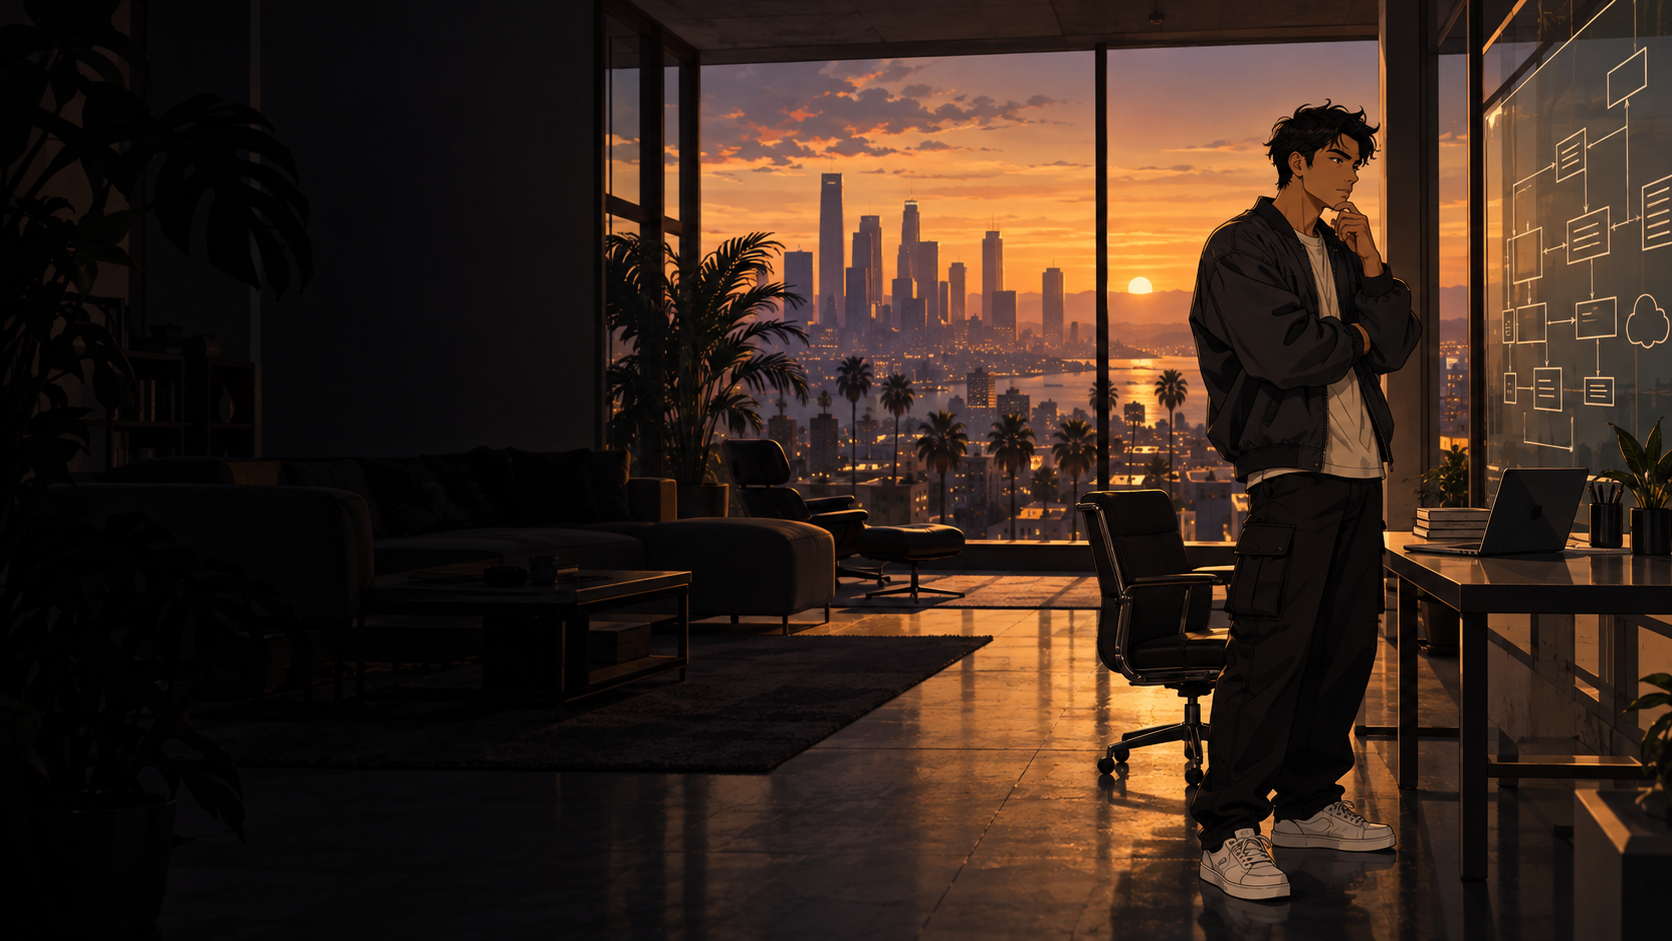
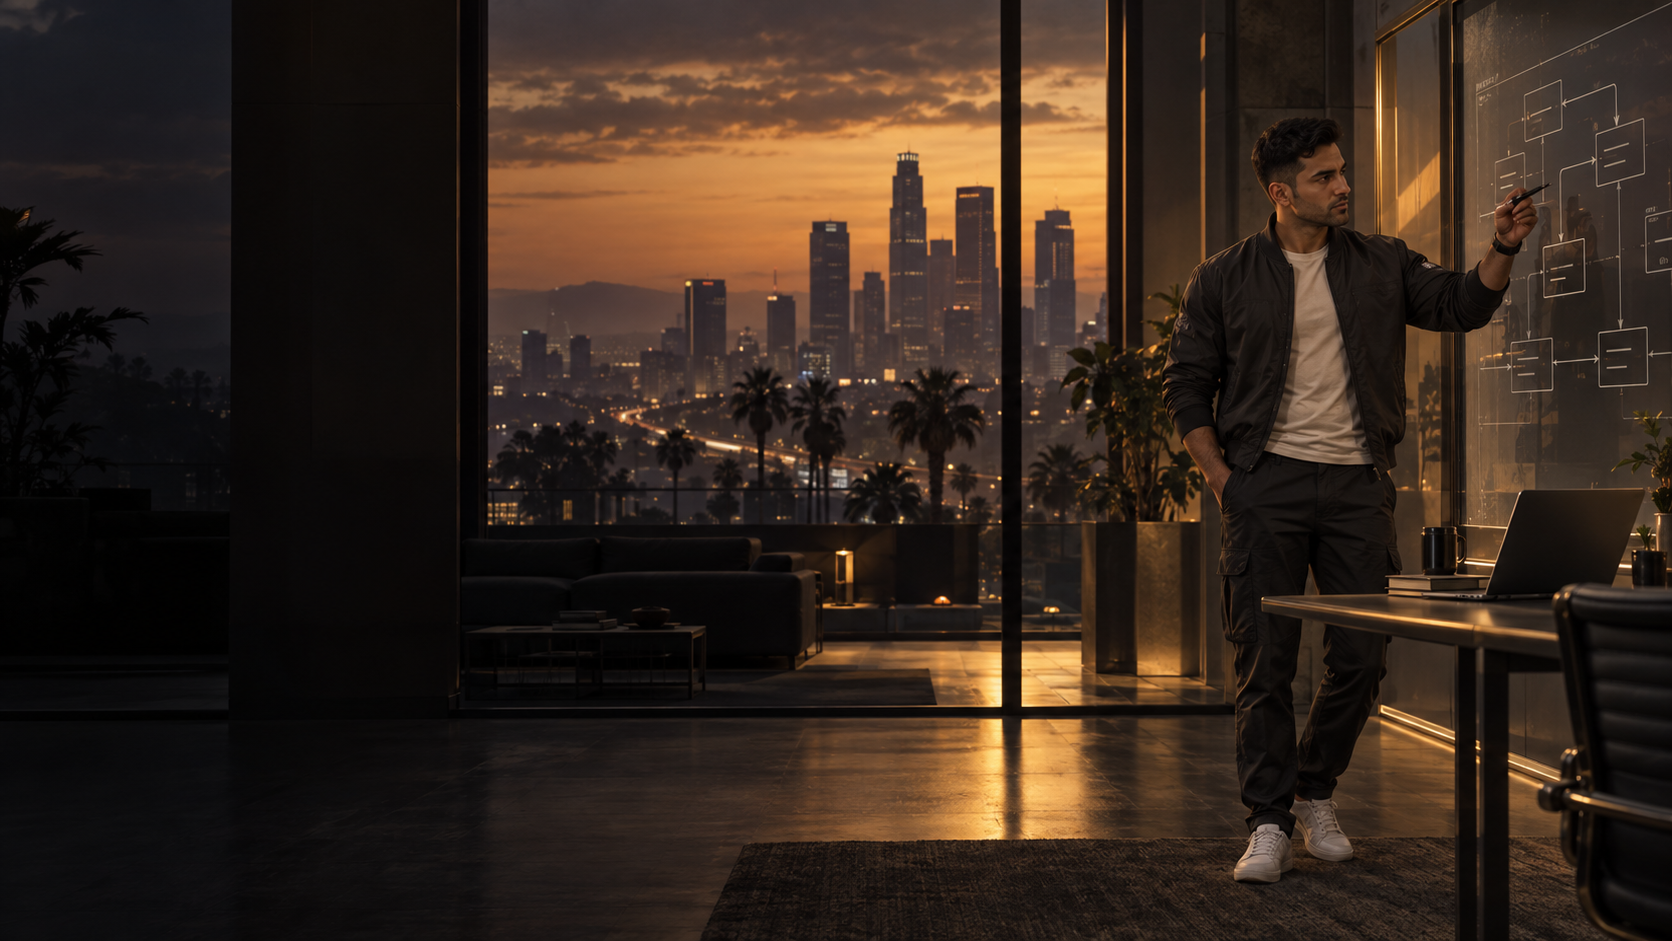
Update backgrounds to feature realistic 3D game protagonist; revise related documentation

diff --git a/PROMPTS.md b/PROMPTS.md
@@ -1,61 +1,70 @@
-# Anime engineer city backgrounds
+# Software engineer game protagonist backgrounds
 
-Generated with the built-in image generation tool, one separate call per scene. Original PNGs are saved in `art-source/`; optimized images consumed by the site are in `public/art/`. These replace all nine previous backgrounds.
+Generated with the built-in image generation tool, using one text-to-image call per scene. All nine anime backgrounds were replaced at the owner's request with a realistic adult 3D game protagonist. The coastal city scenes and character activities match the portfolio sections.
 
-The character wears a charcoal bomber jacket, cream T-shirt, dark cargo trousers and white sneakers. Each scene uses an anime character with a GTA-inspired coastal city atmosphere, leaving the left side quiet for portfolio copy. Images were generated from text prompts; a local reference-image attempt was rejected by the tool.
+Original PNGs: `art-source/{hero,about,skills,projects,experience,achievements,services,contact,outro}.png`.
+Optimized site assets: the matching filenames under `public/art/` with `.webp` extensions.
 
-## Final prompts
+## Shared prompt
+
+Every final prompt is this shared prompt followed by its scene description below.
+
+```text
+Use case: stylized-concept. Asset: one cinematic 16:9 landscape background for a software engineer's game-themed portfolio. VISUAL STYLE: a premium AAA open-world VIDEO GAME CUTSCENE, GTA V / GTA VI protagonist energy, high-end realistic 3D game character rendering and believable game environment. The man must look like a playable MAIN CHARACTER from an open-world game, with realistic adult facial anatomy, small natural eyes, a broad jaw, short neatly cropped black hair with faded sides, subtle stubble, warm medium-brown Indian skin, age 28, confident relaxed posture, athletic average build. Consistent outfit: fitted charcoal utility bomber jacket, plain off-white crewneck shirt, dark cargo trousers, understated white sneakers and a dark wristwatch. Realistic skin and fabric materials, detailed 3D lighting, cinematic game-engine finish, grounded mature appearance. NO anime, NO manga, NO cel shading, NO illustrated outlines, NO cartoon face, NO exaggerated eyes, NO spiky hair. He is a software engineer, so relate his activity to the scene below. Composition: full environmental view, character entirely in RIGHT third, face centered around 76 percent across and 40 percent down, comfortably below the upper 20 percent reserved for site navigation. LEFT 55 percent remains quiet, dark and uncluttered for white website text; near-black foreground structure and atmospheric distant city. No UI, text, readable lettering, game logos, brands, watermarks, weapons or collage. Scene: 
+```
+
+## Scene descriptions
 
 ### hero
 
 ```text
-Use case: stylized-concept. Asset type: full-screen 16:9 software engineer portfolio background, 1536x1024 or wider. Create an original anime illustration with the cinematic city atmosphere and bold outlined, painted loading-screen aesthetic of GTA. Scene: a rooftop software engineering studio with an open laptop on a desk beside a terrace overlooking a palm-lined coastal city, distant towers, streets and ocean at golden hour. Subject: one clearly recognizable adult anime young man, age 25, short tousled black hair, warm medium skin, clean shaven, wearing an oversized charcoal bomber jacket over a cream T-shirt, dark cargo trousers and white sneakers. He sits at the laptop in three-quarter view on the RIGHT third, thoughtful confident expression. Show enough face to read as anime. Clothing is contemporary GTA-style streetwear. Left 55 percent must be uncluttered dark architectural shadow and hazy distant city, reserved for white webpage text. Keep character's head near 73 percent across and 44 percent down so webpage HUD does not cover it. Cinematic wide environmental view, finely inked anime contours, cel shading with painterly scenery, warm orange coral skyline and deep charcoal foreground. No lettering, no logos, no watermarks, no UI, no guns. Single landscape artwork, not collage.
+Golden hour rooftop engineering studio overlooking a large open-world coastal city, palm-lined boulevard, distant towers and sea. The protagonist sits confidently at a laptop on the RIGHT third, one hand on its keyboard and the other resting on the desk, face visible in three-quarter view. Warm burnt orange and coral sunset.
 ```
 
 ### about
 
 ```text
-Use case: stylized-concept. Create one original full-screen 16:9 landscape software engineer portfolio background. Use inked anime contours, cel shading and a painterly GTA-inspired city loading-screen atmosphere. Character: 25-year-old young man with short tousled black hair, warm medium skin, clean shaven, oversized charcoal bomber jacket over cream T-shirt, dark cargo trousers and white sneakers. He must be clearly visible on the RIGHT third with readable anime facial features. Left 55 percent is uncluttered dark shadow for webpage text. Head near 73 percent across, 44 percent down; wide environmental view, character integrated naturally into city architecture. Preserve near-black foreground and luminous distant sky. No lettering, logos, watermark, UI, guns or collage. Scene: Late afternoon at a loft home studio overlooking palm-lined coastal streets. The engineer on the right sits sideways at a desk, holding a mug beside his laptop, looking toward the view. Sage green, warm cream and honey light.
+Late afternoon loft home studio overlooking coastal city streets and palms. The protagonist sits sideways at his desk on the RIGHT third, holding a coffee mug beside an open laptop, reflective confident expression. Sage green, warm cream and honey sunlight.
 ```
 
 ### skills
 
 ```text
-Use case: stylized-concept. Create one original full-screen 16:9 landscape software engineer portfolio background. Use inked anime contours, cel shading and a painterly GTA-inspired city loading-screen atmosphere. Character: 25-year-old young man with short tousled black hair, warm medium skin, clean shaven, oversized charcoal bomber jacket over cream T-shirt, dark cargo trousers and white sneakers. He must be clearly visible on the RIGHT third with readable anime facial features. Left 55 percent is uncluttered dark shadow for webpage text. Head near 73 percent across, 44 percent down; wide environmental view, character integrated naturally into city architecture. Preserve near-black foreground and luminous distant sky. No lettering, logos, watermark, UI, guns or collage. Scene: Blue hour in a rooftop systems lab with a laptop and two monitors showing only abstract geometric code-like lines, no readable text. The engineer works at the workstation on the right; glass reveals towers and palms. Cyan teal, slate blue and charcoal.
+Blue hour software systems lab high above an open-world city. The protagonist works at a laptop and two realistic monitors on the RIGHT third, screens showing abstract code-like lines and network diagrams without legible text. Cyan teal lights, slate blue skyline, dark charcoal interior.
 ```
 
 ### projects
 
 ```text
-Use case: stylized-concept. Create one original full-screen 16:9 landscape software engineer portfolio background. Use inked anime contours, cel shading and a painterly GTA-inspired city loading-screen atmosphere. Character: 25-year-old young man with short tousled black hair, warm medium skin, clean shaven, oversized charcoal bomber jacket over cream T-shirt, dark cargo trousers and white sneakers. He must be clearly visible on the RIGHT third with readable anime facial features. Left 55 percent is uncluttered dark shadow for webpage text. Head near 73 percent across, 44 percent down; wide environmental view, character integrated naturally into city architecture. Preserve near-black foreground and luminous distant sky. No lettering, logos, watermark, UI, guns or collage. Scene: After sunset in a creative build room overlooking neon coastal boulevards, a blank architectural model and laptop on the right. The engineer stands by the desk looking at the laptop, a downtown skyline beyond. Dusty coral, rose, plum and charcoal.
+After sunset project build room with a laptop and a small architectural model on a desk at RIGHT, connecting software development to a real estate CRM project. The protagonist stands beside the desk reviewing the laptop. City boulevard and towers through a panoramic window. Dusty coral, rose and plum light.
 ```
 
 ### experience
 
 ```text
-Use case: stylized-concept. Create one original full-screen 16:9 landscape software engineer portfolio background. Use inked anime contours, cel shading and a painterly GTA-inspired city loading-screen atmosphere. Character: 25-year-old young man with short tousled black hair, warm medium skin, clean shaven, oversized charcoal bomber jacket over cream T-shirt, dark cargo trousers and white sneakers. He must be clearly visible on the RIGHT third with readable anime facial features. Left 55 percent is uncluttered dark shadow for webpage text. Head near 73 percent across, 44 percent down; wide environmental view, character integrated naturally into city architecture. Preserve near-black foreground and luminous distant sky. No lettering, logos, watermark, UI, guns or collage. Scene: Twilight in a high-rise architecture room with abstract software architecture diagrams drawn as simple connected boxes without lettering on a glass board. The engineer stands on the right studying the board with a laptop nearby, sunset city skyline and palms beyond. Ochre gold and tobacco, charcoal shadows.
+Twilight software architecture room, the protagonist standing on the RIGHT studying simple connected rectangular system diagrams on a glass board, laptop on a nearby table. Broad view of city skyscrapers and palms. Ochre gold, tobacco and charcoal.
 ```
 
 ### achievements
 
 ```text
-Use case: stylized-concept. Create one original full-screen 16:9 landscape software engineer portfolio background. Use inked anime contours, cel shading and a painterly GTA-inspired city loading-screen atmosphere. Character: 25-year-old young man with short tousled black hair, warm medium skin, clean shaven, oversized charcoal bomber jacket over cream T-shirt, dark cargo trousers and white sneakers. He must be clearly visible on the RIGHT third with readable anime facial features. Left 55 percent is uncluttered dark shadow for webpage text. Head near 73 percent across, 44 percent down; wide environmental view, character integrated naturally into city architecture. Preserve near-black foreground and luminous distant sky. No lettering, logos, watermark, UI, guns or collage. Scene: Nighttime rooftop reading lounge with books, a notebook and laptop beside the engineer seated on the right. Large coastal city skyline, palm silhouettes and warm golden window lights. Pale gold and olive black. No trophies, no diplomas.
+Night rooftop study lounge, the protagonist seated on the RIGHT reading a technical book beside notebooks and a laptop. Coastal city skyline and warm golden window lights. Pale gold and olive black. Education and continued learning atmosphere. No trophies or fake diplomas.
 ```
 
 ### services
 
 ```text
-Use case: stylized-concept. Create one original full-screen 16:9 landscape software engineer portfolio background. Use inked anime contours, cel shading and a painterly GTA-inspired city loading-screen atmosphere. Character: 25-year-old young man with short tousled black hair, warm medium skin, clean shaven, oversized charcoal bomber jacket over cream T-shirt, dark cargo trousers and white sneakers. He must be clearly visible on the RIGHT third with readable anime facial features. Left 55 percent is uncluttered dark shadow for webpage text. Head near 73 percent across, 44 percent down; wide environmental view, character integrated naturally into city architecture. Preserve near-black foreground and luminous distant sky. No lettering, logos, watermark, UI, guns or collage. Scene: First light in a modern software solutions studio with a laptop and a few monitors on the right, the engineer leaning casually against the desk. Expansive window onto coastal city streets, palms and distant towers. Lavender and smoky violet dawn, charcoal foreground.
+First light in a modern software consulting studio, protagonist on the RIGHT leaning confidently against a workstation with laptop and monitors, city streets, palms and distant towers through a panoramic window. Lavender and smoky violet dawn.
 ```
 
 ### contact
 
 ```text
-Use case: stylized-concept. Create one original full-screen 16:9 landscape software engineer portfolio background. Use inked anime contours, cel shading and a painterly GTA-inspired city loading-screen atmosphere. Character: 25-year-old young man with short tousled black hair, warm medium skin, clean shaven, oversized charcoal bomber jacket over cream T-shirt, dark cargo trousers and white sneakers. He must be clearly visible on the RIGHT third with readable anime facial features. Left 55 percent is uncluttered dark shadow for webpage text. Head near 73 percent across, 44 percent down; wide environmental view, character integrated naturally into city architecture. Preserve near-black foreground and luminous distant sky. No lettering, logos, watermark, UI, guns or collage. Scene: A rooftop collaboration lounge at night, the engineer on the right holding a smartphone casually with a closed laptop on a table, looking out across the city. Palm-lined boulevard and distant sea, subtle pink neon architectural lights without signage. Dusty rose, plum and charcoal.
+Night rooftop business lounge, protagonist on the RIGHT holding a smartphone and looking toward the viewer with an approachable confident expression, closed laptop on a nearby table. Coastal city, palms and subtle pink architectural lights, dusty rose and plum.
 ```
 
 ### outro
 
 ```text
-Use case: stylized-concept. Create one original full-screen 16:9 landscape software engineer portfolio background. Use inked anime contours, cel shading and a painterly GTA-inspired city loading-screen atmosphere. Character: 25-year-old young man with short tousled black hair, warm medium skin, clean shaven, oversized charcoal bomber jacket over cream T-shirt, dark cargo trousers and white sneakers. He must be clearly visible on the RIGHT third with readable anime facial features. Left 55 percent is uncluttered dark shadow for webpage text. Head near 73 percent across, 44 percent down; wide environmental view, character integrated naturally into city architecture. Preserve near-black foreground and luminous distant sky. No lettering, logos, watermark, UI, guns or collage. Scene: Dawn on a scenic coastal city overlook, the engineer on the right leaning against an unbranded dark coupe with a laptop bag at his side, looking toward the rising sun. Palm-lined winding road, ocean and distant city towers. Peach orange, dusty blue and charcoal.
+Dawn at a coastal city scenic overlook, protagonist on the RIGHT leaning against a dark unbranded sports coupe, laptop messenger bag at his side, looking toward the horizon. Palm-lined winding road, ocean and city towers. Peach orange and dusty blue.
 ```

diff --git a/CONTENT-SOURCES.md b/CONTENT-SOURCES.md
@@ -18,7 +18,7 @@ Personal details were read from the JavaScript-rendered pages at [Denish Kunjadi
 - Fiverr, RemoteHub, and Dribbble were labels without profile URLs on the old site. They are omitted from clickable social links pending actual URLs.
 - The live-demo and repository URLs are preserved as published; availability of those external destinations is controlled by their hosts.
 - Contact uses email, telephone, and social links. The old site's contact-form submission service was not copied or invoked.
-- The backgrounds now feature an adult anime software engineer in contemporary streetwear, with GTA-inspired coastal city views. Generation prompts are recorded in `PROMPTS.md`.
+- The backgrounds feature a realistic adult 3D game protagonist in contemporary streetwear, with software engineering activities and GTA-inspired coastal city views. Generation prompts are recorded in `PROMPTS.md`.
 - Home base is **Yogichowk, Surat, Gujarat 395010**. The decorative minimap opens an embedded Google map for that address; the contact and location links open Google Maps.
 - Primary email actions open a pre-addressed Gmail compose page. A standard email-app link and a copy-address button are also available.
 

diff --git a/README.md b/README.md
@@ -34,7 +34,7 @@ Personal content is migrated from Denish Kunjadiya's existing portfolio. The con
 
 ## Art plates and video
 
-Nine original AI-generated illustrations feature an adult anime software engineer in streetwear, with GTA-inspired coastal city views. PNG originals are included in `art-source/`; the site uses optimized WebP versions in `public/art/`. Run `node scripts/optimize-art.mjs` to regenerate the WebP files. See **`PROMPTS.md`** for the generation prompts.
+Nine original AI-generated backgrounds feature a realistic 3D game protagonist as a software engineer, with GTA-inspired coastal city views and activities matching each section. PNG originals are included in `art-source/`; the site uses optimized WebP versions in `public/art/`. Run `node scripts/optimize-art.mjs` to regenerate the WebP files. See **`PROMPTS.md`** for the generation prompts.
 
 To replace an image, place it in `public/art/` and update the corresponding screen's `image` path. Aim for a landscape image with quiet space on the left and details on the right. Every screen has a CSS gradient fallback if its image is missing or fails to load.
 
